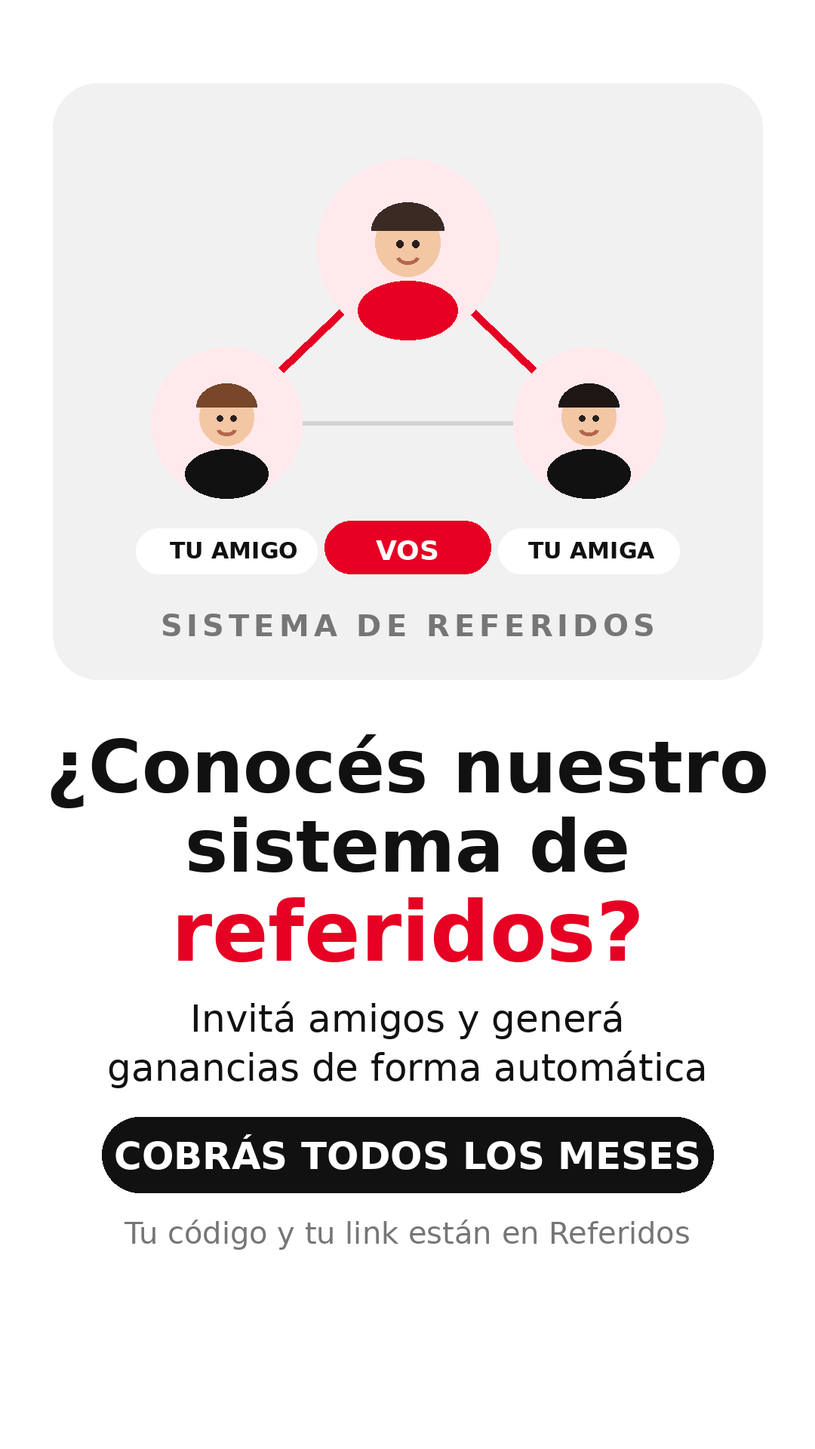
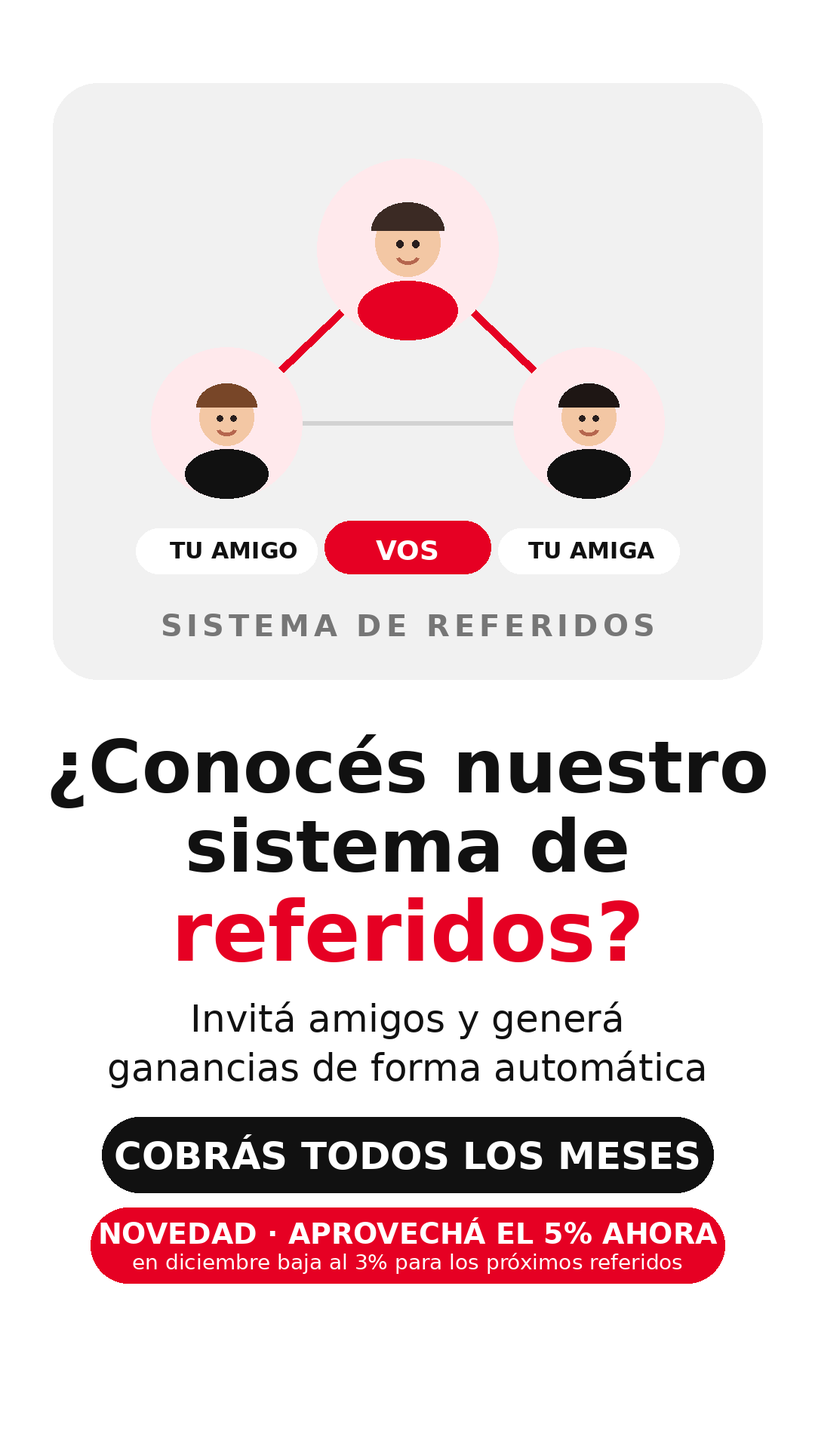
feat(app): novedad de Referidos (5% ahora, 3% desde diciembre) en el modal y en la historia — WORKLOG #472, SW v330

Changed region(s): [[0.0917, 0.8125, 0.8861, 0.9062]]

diff --git a/public/firebase-messaging-sw.js b/public/firebase-messaging-sw.js
@@ -34,7 +34,7 @@ try {
 // ============================================
 // CONFIGURACIÓN DE CACHÉ
 // ============================================
-const CACHE_VERSION = 'v329'; // v329: 'Ver la plataforma' con selector Girox / Ganamos (Pronto) / Jugaygana (Pronto) (#470) // v328: condiciones de referidos y niveles VIP estilo 1win, detalle por nivel y soporte Telegram para Black (#465) // v327: medidor de uso de la app (ping cada 60 s) para Datos IA (#459) // v326: reembolso 'de tu NETWIN' en inicio/menu; promo 'valida hasta diciembre' solo dentro de los modales (#458) // v325: historias rehechas sin pie interno (franja inferior libre), Soporte con los 3, arriba solo el nombre (#456) // v324: historias: logo + PICA ROJA arriba a la izquierda (Instagram), sello de abajo en blanco sin pildora (#455) // v323: barras de progreso de historias tipo Instagram (#454) // v322: historias tipo WhatsApp: foto completa, sello de marca al pie, sin bloque negro (#453) // v321: visor de historias: marca arriba, texto abajo sobre fondo negro desgastado sin pisar la foto (#452) // v320: modal 'Tu opinion' con el estilo de la app (#450) // v319: Menu facil con avatar + nombre desplegable (ver mas); sin 'GIROX - LA APP QUE PAGA' en la entrada (#448/#449) // v318: detalle de reembolsos en inicio solo con el % diario (#447) // v317: selector de reembolsos: tres botones rojos con letra blanca e iconos de linea (#446) // v316: iconos con mas presencia (trazo grueso, duotono, caja rojo claro) (#445) // v315: alerta del banco sin pausar si el panel lo configura asi (#443) // v314: alerta 'banco con fallas' en el retiro (#442) // v313: Inicio post-login con iconos de linea (entrada, menu facil, selector, instalar app) (#441) // v312: iconos de linea (Pinterest) en Info y Perfil en vez de emojis (#440) // v311: Info: texto de plataformas en su linea, solo Girox/Ganamos/Jugaygana en negrita (#439) // v310: Info: texto de 'La plataforma que quieras' en negrita (#438) // v309: 'Cerrar sesion' en Perfil tambien para diego294290 (#437) // v308: parte superior del inicio un poco mas abajo, centrada con la de abajo (#436) // v307: 'Pronto' en vez de 'Proximamente' en Elegi donde jugar (#435) // v306: fila prioritaria 'Carga automatica y atencion personalizada' arriba de los beneficios (#434) // v305: 'CARGAS Y PAGOS LAS 24 HS SIN LIMITES' bajo el titulo (#433) // v304: beneficios con texto completo en tres filas (VIP PICA ROJA, reembolsos diarios/semanales/mensuales, referidos) (#432) // v303: mas espacio entre bloques del inicio; 'Jugaygana' con J mayuscula (#431) // v302: inicio en exactamente una pantalla de telefono (sin scroll, opiniones con el alto sobrante), sin burbuja de Soporte (#430) // v301: inicio mas compacto para que las opiniones entren en la pantalla principal (#429) // v300: recuadro 'Elegi donde jugar' debajo de Registrarse (jugaygana en minuscula), sin linea de estrellas, opiniones visibles (#428) // v299: inicio solo 'Completa tu nombre para registrarte' + 'Registrarse ya'; sin olvide clave / soporte / ya tengo cuenta (#427) // v298: paso 'Te registraste con exito' con usuario y clave antes de entrar (#426) // v297: la entrada con nombre es LA forma de registro; sin 'Crear mi cuenta' (#425) // v296: ingreso con tarjetas de beneficios (VIP, reembolsos, elegi donde jugar, referidos) con iconos de linea (#424) // v295: Girox nunca 'Proximamente' en la fila del ingreso (#423) // v294: fila de las 3 plataformas en el ingreso, Ganamos y jugaygana 'Proximamente' (#423) // v293: entrada rapida automatica para quien llega por link de publicidad (#422) // v292: entrada rapida solo con el nombre cuando el registro esta desactivado en el panel (#421) // v291: boton de ingreso 'Iniciar sesion', mas chico (#420) // v290: ingreso mas compacto arriba, reseñas con comentario visible, burbuja de Soporte chica en la punta (#419) // v289: registro siempre visible (tambien con link de publicista), 'Olvide mi contraseña', registro = usuario + clave + telefono + SMS, 'Confirmar y entrar' (#418) // v288: ingreso como estaba (login visible + Crear mi cuenta), reseñas deslizandose, historias como anillo arriba a la derecha (#417) // v287: ingreso sin chips ni ticker; historias publicadas + opinion de la gente (reseña que rota) (#416) // v286: ingreso en UNA pantalla estilo registro de app (sin scroll, explicacion resumida, linea de confianza) (#415) // v285: ingreso como REGISTRO (SMS), soporte para visitantes (burbuja + panel), ticker sobrio con el final del nombre visible (#414) // v284: 'Cerrar sesion' al pie de Perfil solo para lalodj (#412) // v283: botones Comprobante aqui / Retirar premio a mitad y mitad sin desbordar (#409) // v282: Info: 'La plataforma que quieras' (texto nuevo, jugaygana en minuscula) (#407) // v281: Perfil: el link de la pagina va recto debajo del titulo, en una linea (#406) // v280: fueguito: requisito por MONTO cargado en N dias (no por cantidad de cargas) en textos del home y del modal (#405) // v279: Perfil reordenado (Canjear codigo arriba, Menu, Nocturno + Notificaciones, datos + Capturar, Fueguito, resto) y mas compacto (#404) // v278: etiquetas Telegram / Historias de la barra mas chicas, sin corte (#403) // v277: la barra 'Instala la app' pendiente ya no tapa Comprobante aqui / Retirar premio (#402) // v276: Soporte: la presentacion se va cuando el cliente ya escribio; cierre automatico a las 6 h sin respuesta y el chat arranca de cero para el (#401) // v275: Perfil: modo nocturno arriba con Activar/Desactivar, filas usuario/clave/pagina en una linea, Ocultar debajo de Copiar; nocturno: texto --p-inv sobre fondos negros (#399) // v274: modo nocturno solo dentro de Perfil, sin boton en la barra (#396) // v273: modo nocturno de la app (Perfil + barra, #392), Perfil con codigo de referido y clave visible (#393), ruleta sin probabilidades (#390), Retirar premio verde + 'Comprobante aqui' (#391), Info en tarjetas con titulo recuadrado (#394) // v272: 'Retirar premio' con minimo y 'pago automatico' afuera; textos de los botones editables // v271: chips de Soporte mandan solos; Cargar/Retirar responden con boton al sector // v270: plataformas de carga automatica en una fila de cuadrados // v269: codigo SMS en cada retiro // v268: pantalla de ingreso nueva (marca, servicio, reembolsos, plataformas, carga minima, resenas) // v267: pestanas de plataformas iguales (3 cuadrados) + Soporte independiente del chat viejo // v266: retiro minimo $10.000 configurable + 'pago automatico' en el modal de retiro // v265: JUGAYGANA como tercera plataforma (Proximamente) // v264: Soporte paralelo (chat nuevo desde hoy, respuestas firmadas por la persona de turno) // v263: carga automatica: aviso de comprobante duplicado, acuse 'recibimos tu comprobante', franja 'carga pendiente' y rechazo // v262: Soporte 100% soporte (sin cartel de carga automatica ni botones extra; bienvenida nueva) // v261: ruleta: como se desbloquea (carga minima), premio mayor 1 cada 1000, estado bloqueado // v260: Carga manual -> SOPORTE (Martin se presenta, chat con el estilo de la pagina) // v259: ruleta con el estilo nuevo + aviso 'promocion hasta diciembre' en reembolsos // v258: nombre de la app 'PICA ROJA oficial' + logo real de Telegram en la barra // v257: tema Pinterest (blanco, grises, rojo) en toda la app salvo Carga manual // v256: Info del servicio en un solo mensaje, sin app/notificaciones (quedan en Perfil) // v255: el selector facil/completo pregunta en cada arranque y tras 10 min afuera; boton 'Pasar al menu completo' // v254: MENU FACIL (selector al entrar + pantalla de 6 accesos grandes) // v253: al entrar a Carga manual el CBU aparece solo // v252: tarjeta CBU en el chat con 'Por favor enviar comprobante aqui' // v251: letras de la barra de arriba mas chicas, sin cortes // v250: fix endpoint del Telegram de la barra // v249: Telegram a la izquierda, colores en las puntas, 'Historias' mas chico // v248: HISTORIAS (anillo arriba a la derecha + visor) // v247: resenas: 'Deja tu opinion' fija y chica, el resto desliza // v246: Info del servicio con el reembolso diario // v245: tarjeta Reembolso del inicio con el % diario (25) // v244: icono nuevo (pica) + nombre CARGAS AUTOMATIC // v243: titulo/nombre de la app 'CARGAS AUTOMATICA' // v242: tarjeta del fueguito mas baja // v241: fotos del inicio mas grandes // v240: regla del fueguito en una linea // v239: 'Proximamente' visible debajo de Ganamos (tarjeta y pestana del Inicio) // v238: inicio sin puntitos ni etiqueta; boton de cargar abajo de la foto // v237: referidos 5% (texto desde el server) // v236: logo de Ganamos (pica violeta) + promedio de resenas con estrella parcial // v235: reembolso DIARIO de vuelta (25%), semanal 3%, mensual 1%, cartel NOVEDAD en Inicio // v234: JS/CSS network-first (los deploys se ven en la primera apertura); regla del fueguito arriba del modal // v233: fueguito: 'minimo 10 cargas entre racha y racha' visible aunque el server no mande el valor // v232: premios del fueguito x5 en los textos por defecto // v231: texto del fueguito: minimo 5 cargas entre racha y racha // v230: fueguito: la condicion se ve adentro del modal (estaba oculta), minimo 5 cargas por racha // v229: carga manual: avatar de asistente mujer y 'Escribi aqui' en el campo // v228: sin parpadeo del login con sesion guardada; verificacion general sin errores // v227: sin el boton 'Link casino aqui' en carga auto y manual // v226: regla del fueguito (minimo 10 cargas por racha, si no vuelve a 0) a la vista en la tarjeta // v225: carga auto: el panel scrollea adentro, los botones de abajo no se enciman // v224: boton rojo encima de la foto (sin reservar lugar) y sin leyenda abajo // v223: recuadro de fotos al espacio que sobra: Inicio sin deslizar, opiniones a la vista // v222: sin el boton LINK CASINO en el Inicio // v221: puntos del carrusel arriba del boton rojo (no detras de LINK CASINO) // v220: ajuste y centrado por modelo (chico/estandar/grande, tablet centrada, bajos, safe areas) en Inicio, carga auto y manual // v219: carga automatica ocupa toda la pantalla y escala en telefonos altos (Samsung A56 etc.) // v218: fotos del Inicio con la version pegada al link (sin cache viejo) // v217: fotos del Inicio con nombres nuevos (g1..g5) y en el orden pedido; sin fotos anteriores // v216: 'LINK CASINO AQUI · www.1girox.com' como boton en el Inicio y en carga auto/manual // v215: sin el boton 'Ver completas' en las fotos // v214: boton 'Link plataforma' abajo de carga auto y carga manual (abre el casino para jugar) // v213: fotos nuevas del carrusel del Inicio (5 grillas de juegos) // v212: fondo como estaba antes (se quitaron los cambios de tono #321/#325) // v211: fondo un poco mas oscuro y barra superior con el mismo fondo // v210: leyenda del carrusel = link de la plataforma (www.1girox.com) que abre aparte adentro de la app // v209: boton 'Ver completas / Achicar' en las fotos del Inicio (pantalla completa) // v208: fotos completas en el Inicio (recuadro con altura propia) y boton chiquito sobre el final de la foto // v207: fondo azul profundo (mas claridad), vidrio un poco mas claro // v206: boton de cargar en una linea, mas bajo // v205: etiqueta 'FOTO ILUSTRATIVA · aca no se juega' en cada foto y leyenda clara // v204: foto principal de la pagina completa de Girox primera en el carrusel, con recuadro fino tipo pantalla // v203: opiniones de jugadores con mas vida (vidrio, estrellas doradas, insignia de promedio) // v202: sin la linea 'Vista ilustrativa' en el Inicio // v201: boton grande 'Para cargar ahora mismo · apreta aqui' debajo de las fotos // v200: fotos del Inicio a todo el ancho con recuadro y fondo desenfocado // v199: tests tambien con la app instalada para el usuario de prueba // v198: Inicio con carrusel de fotos ilustrativas de Girox (cada 2 s) en vez de la pagina embebida // v197: numero de version visible en Perfil (app vNNN) // v196: con la app instalada no hay test ni para lalodj (funciona como app real) // v195: Inicio siempre al entrar; carga minima tambien en el paso 2 y en el cartel del chat // v194: cabecera del chat 'Carga manual' con asistente // v193: perfil con avatar (recuadro de usuario, selector de iconos, iconos de nivel que se desbloquean) // v192: recarga automatica al entrar una version nueva; tarjetas Girox/Ganamos compactas en carga auto; saldo con el numero abajo // v191: carga minima $5.000 siempre visible (linea en la tarjeta + boton), aun sin redeploy // v190: Girox siempre elegible (nunca 'Proximamente') // v189: Girox siempre seleccionable; Ganamos como estaba (pestaña abre su pagina) con etiqueta Proximamente // v188: carga minima $5.000 en el boton de comprobante y el paso 1 (configurable); iconos de casino discretos y patron tenue de fondo // v187: aviso premium 'la unica app que paga todo en el momento' en el Inicio; Ganamos visible como 'Proximamente' (no seleccionable hasta tener API) // v186: Jugar ahora abre la plataforma afuera con autologin y linea finita 'Volver a cargas'; tests solo para el usuario de prueba; textos segun plataformas habilitadas (Ganamos apagada) // v185: 'Adjuntar comprobante aqui'; un solo cartel (Jugar ahora + extra por instalar) y barra pendiente de punta a punta; fueguito del inicio como estaba, premios plegables y condicion abajo en el modal; niveles VIP abren la escalera (tambien en el test); sin Soporte en vivo en Perfil // v184: niveles VIP escalera 1win (19 niveles) con la plata que desbloquea cada nivel // v183: Info sin opiniones ni ruleta; nivel VIP al lado del saldo con la app instalada (+test); fueguito con barra de niveles y regla de cargas minimas // v182: oferta por instalar la app = % EXTRA sobre la carga (50%), 'cargarlo ahora' o 'despues de jugar' // v181: Informacion del servicio con el estilo de la barra de arriba (recuadros de vidrio, texto grande) // v180: sin globo flotante de soporte // v179: barra de arriba 'Carga auto' // v178: 'Recomendado' debajo de Girox // v177: carga gratis — 'la instalo despues' pinta el boton grande de abajo tambien en test y sin depender del server // v176: pasos 1 y 2 de 'Carga aca' en recuadros, compactos (sin scroll) // v175: carga GRATIS por instalar la app en la primera carga (hoja de oferta, boton grande pendiente, reclamo desde la app instalada, test) // v174: 'Carga aca' centrada con paso 2 (adjunta la foto abajo); boton 'Carga aqui (adjunta la foto aqui)' // v173: opiniones deslizan solas (pausa al tocar) // v172: carrusel de opiniones con 30 reseñas al azar por apertura // v171: vuelven las paginas embebidas al entrar (sin modo logo) // v170: Inicio en modo logo (sin cargar la web), 'Ver pagina' desde el 2º ingreso, texto explicativo grande con links, test de 2º ingreso // v169: nota 'vista ilustrativa · para cargar usa la barra de arriba' en el Inicio // v168: cartel 'Jugar ahora' al acreditarse la carga (abre la plataforma adentro de la app) + boton test chiquito en carga manual y automatica // v167: Perfil en estilo oscuro // v166: resenas discretas (sin fondo blanco) con 'Deja tu opinion' primero; sin aviso de verificar telefono // v165: toda la barra con el estilo del Inicio (iconos SVG, vidrio, corte diamantado); Fueguito diario arriba de la carga automatica // v164: carga automatica con alias+titular y explicacion de plataformas (sin Entrar); Fueguito diario entre Cargar y Retirar; cartel del chat corto 'Recomendable' + Ir a carga automatica // v163: Inicio moderno/futurista (sin retro); resenas tipo Google deslizantes al pie del Inicio; Perfil con usuario/clave/link protagonistas + capturar // v162: Inicio al centro, separado y retro; reembolso / ruleta / referidos arriba del Inicio; carga automatica sencilla // v161: barra de arriba Inicio / Carga automatica / Carga manual / Info / Perfil (usuario+clave, cambiar clave, notificaciones, canal, codigo, instalar, fueguito); sin botones abajo en la entrada // v160: pantalla de entrada — Girox abierto adentro, Ganamos para cambiar, Carga manual / Carga automatica // v159: chat estilo WhatsApp como pantalla principal + cartel 'Servicio completo' con menu deslizante (Ver todo) que despliega la app completa // v158: circulos de la cabecera mas chicos // v157: cabecera apenas mas baja // v156: franja del saldo a la mitad de alto // v155: Instalar app (IMPORTANTE) al lado del saldo; abajo Referidos + Como funciona en una linea // v154: app instalada → casino adentro con carga rapida en formato CARGA (descartable); navegador → aparte con barra Volver // v153: el casino se abre APARTE en /jugar.html con barra 'Volver a la app' (login por API; Ganamos su web; prueba = home publica) // v152: Android sin prompt — info con boton 'Apreta aca para abrir en Google Chrome' (link de acceso directo) // v151: bono de nivel VIP a reclamar con cartel de felicidades y eleccion de plataforma; home compactada en una pantalla; saldo arriba // v150: niveles VIP sin plata — solo nivel y porcentajes // v149: 'Recomendado' en rojo en el recuadro de Girox // v148: Info del servicio — app+notis en una linea arriba, titulo chico, ruleta plegada en vez de niveles VIP // v147: tarjeta de nivel VIP con barra de progreso y escalera desbloqueable debajo de Guarda tu acceso // v146: circulo de arriba 'Soporte aqui' con icono de chat (sin logo de Girox) // v145: Retirar premio en una linea, fila de acciones a la mitad de alto // v144: niveles VIP plegados debajo de reseñas en Info del servicio // v143: instalar app — Android con prompt instala directo, iPhone/otros ven los pasos, Instagram en Android abre Chrome; el botón dice qué va a pasar // v142: fix div sobrante de la tarjeta de carga; Retirar 'se retira automaticamente'; circulo de arriba restaura la burbuja // v141: tarjeta de carga sin paso 2; Cargar aqui dice adjuntar comprobante / se carga automaticamente // v140: prueba = página principal de cada casino; burbuja con ícono de chat y X adentro // v139: Probá las plataformas mejor presentado; modo prueba sin la carga rápida dentro del casino // v138: fila de reembolsos sin recortes + modal de reembolso simple estilo cambio de clave // v137: burbuja de soporte compacta (foto), se saca con X y queda arriba al lado del fueguito // v136: cobro de referidos desde la app, aviso de clave inicial, tarjetas de plataforma chicas con logo (Ganamos violeta) // v135: referidos — como funciona plegado, el resto en una pantalla // v134: fila Cargar aqui (adjuntar comprobante) + Retirar mi premio en rojo // v133: info del servicio — reseñas plegadas arriba, niveles VIP detallados abajo, una hoja centrada // v132: pruebas de plataforma y Ganamos SIEMPRE dentro de la app (recuadro embebido), nada de Chrome // v131: pruebas de plataforma (Girox/Ganamos en Chrome) dentro del soporte // v130: 'Guardá tu acceso a la app' plegable debajo de reembolsos con la captura adentro // v129: fueguito resumido (racha + reclamar + premios) // v128: '¿Dónde querés jugar?' arriba del CBU — tocar = elegir (queda fija), Entrar abre con sesión // v127: burbuja flotante 'Soporte en vivo aquí' (arrastrable, minimizable, abierta al entrar) en vez de la fila; campana y fueguito en los círculos de arriba // v126: info del servicio nueva (por qué elegirnos, reembolsos NOVEDAD, ruleta), reembolsos verdes 'Cobrá tu reembolso acá', ruleta del home, captura solo link/usuario/clave // v125: carga en 2 pasos (CBU → comprobante, acceso secundario) + RETIRAR verde grande con brillo // v124: link de la app completo en la tarjeta de carga // v123: rojo de marketing, arriba al mínimo, reembolsos a la mitad, plataforma FIJA, cómo funciona separado abajo, modales en formato nuevo // v122: barra de soporte sin cortes en pantallas angostas // v121: tema diamante/futurista (vidrio, cian/violeta, cortes diamantados, Montserrat) — chau serif // v120: cabecera de círculos (Canal/Info/Código/Instalar/Clave) sin menú desplegable, carga compacta, barra del casino con plataformas + volver al menú de cargas, estilo premium negro/dorado // v119: home limpia — chau bono por instalar la app, cómo funciona plegado arriba, barra inferior REFERIDOS / INSTALAR APP, explicación completa en el chat // v118: HOME 2.0 — carga automática al frente (CBU/alias/datos de acceso/captura), chat como SOPORTE arriba, plataformas para elegir dónde jugar, cómo funciona el servicio, reembolsos compactos // v117: multi-plataforma — botones "¿dónde querés jugar?" (Girox / Ganamos) y link externo en los mensajes de sistema // v116: Información del Servicio y mini-tarjeta muestran el % vigente del bono por instalar la app (chau 100% fijo)
+const CACHE_VERSION = 'v330'; // v330: novedad en Referidos: el 5% baja al 3% en diciembre (#472) // v329: 'Ver la plataforma' con selector Girox / Ganamos (Pronto) / Jugaygana (Pronto) (#470) // v328: condiciones de referidos y niveles VIP estilo 1win, detalle por nivel y soporte Telegram para Black (#465) // v327: medidor de uso de la app (ping cada 60 s) para Datos IA (#459) // v326: reembolso 'de tu NETWIN' en inicio/menu; promo 'valida hasta diciembre' solo dentro de los modales (#458) // v325: historias rehechas sin pie interno (franja inferior libre), Soporte con los 3, arriba solo el nombre (#456) // v324: historias: logo + PICA ROJA arriba a la izquierda (Instagram), sello de abajo en blanco sin pildora (#455) // v323: barras de progreso de historias tipo Instagram (#454) // v322: historias tipo WhatsApp: foto completa, sello de marca al pie, sin bloque negro (#453) // v321: visor de historias: marca arriba, texto abajo sobre fondo negro desgastado sin pisar la foto (#452) // v320: modal 'Tu opinion' con el estilo de la app (#450) // v319: Menu facil con avatar + nombre desplegable (ver mas); sin 'GIROX - LA APP QUE PAGA' en la entrada (#448/#449) // v318: detalle de reembolsos en inicio solo con el % diario (#447) // v317: selector de reembolsos: tres botones rojos con letra blanca e iconos de linea (#446) // v316: iconos con mas presencia (trazo grueso, duotono, caja rojo claro) (#445) // v315: alerta del banco sin pausar si el panel lo configura asi (#443) // v314: alerta 'banco con fallas' en el retiro (#442) // v313: Inicio post-login con iconos de linea (entrada, menu facil, selector, instalar app) (#441) // v312: iconos de linea (Pinterest) en Info y Perfil en vez de emojis (#440) // v311: Info: texto de plataformas en su linea, solo Girox/Ganamos/Jugaygana en negrita (#439) // v310: Info: texto de 'La plataforma que quieras' en negrita (#438) // v309: 'Cerrar sesion' en Perfil tambien para diego294290 (#437) // v308: parte superior del inicio un poco mas abajo, centrada con la de abajo (#436) // v307: 'Pronto' en vez de 'Proximamente' en Elegi donde jugar (#435) // v306: fila prioritaria 'Carga automatica y atencion personalizada' arriba de los beneficios (#434) // v305: 'CARGAS Y PAGOS LAS 24 HS SIN LIMITES' bajo el titulo (#433) // v304: beneficios con texto completo en tres filas (VIP PICA ROJA, reembolsos diarios/semanales/mensuales, referidos) (#432) // v303: mas espacio entre bloques del inicio; 'Jugaygana' con J mayuscula (#431) // v302: inicio en exactamente una pantalla de telefono (sin scroll, opiniones con el alto sobrante), sin burbuja de Soporte (#430) // v301: inicio mas compacto para que las opiniones entren en la pantalla principal (#429) // v300: recuadro 'Elegi donde jugar' debajo de Registrarse (jugaygana en minuscula), sin linea de estrellas, opiniones visibles (#428) // v299: inicio solo 'Completa tu nombre para registrarte' + 'Registrarse ya'; sin olvide clave / soporte / ya tengo cuenta (#427) // v298: paso 'Te registraste con exito' con usuario y clave antes de entrar (#426) // v297: la entrada con nombre es LA forma de registro; sin 'Crear mi cuenta' (#425) // v296: ingreso con tarjetas de beneficios (VIP, reembolsos, elegi donde jugar, referidos) con iconos de linea (#424) // v295: Girox nunca 'Proximamente' en la fila del ingreso (#423) // v294: fila de las 3 plataformas en el ingreso, Ganamos y jugaygana 'Proximamente' (#423) // v293: entrada rapida automatica para quien llega por link de publicidad (#422) // v292: entrada rapida solo con el nombre cuando el registro esta desactivado en el panel (#421) // v291: boton de ingreso 'Iniciar sesion', mas chico (#420) // v290: ingreso mas compacto arriba, reseñas con comentario visible, burbuja de Soporte chica en la punta (#419) // v289: registro siempre visible (tambien con link de publicista), 'Olvide mi contraseña', registro = usuario + clave + telefono + SMS, 'Confirmar y entrar' (#418) // v288: ingreso como estaba (login visible + Crear mi cuenta), reseñas deslizandose, historias como anillo arriba a la derecha (#417) // v287: ingreso sin chips ni ticker; historias publicadas + opinion de la gente (reseña que rota) (#416) // v286: ingreso en UNA pantalla estilo registro de app (sin scroll, explicacion resumida, linea de confianza) (#415) // v285: ingreso como REGISTRO (SMS), soporte para visitantes (burbuja + panel), ticker sobrio con el final del nombre visible (#414) // v284: 'Cerrar sesion' al pie de Perfil solo para lalodj (#412) // v283: botones Comprobante aqui / Retirar premio a mitad y mitad sin desbordar (#409) // v282: Info: 'La plataforma que quieras' (texto nuevo, jugaygana en minuscula) (#407) // v281: Perfil: el link de la pagina va recto debajo del titulo, en una linea (#406) // v280: fueguito: requisito por MONTO cargado en N dias (no por cantidad de cargas) en textos del home y del modal (#405) // v279: Perfil reordenado (Canjear codigo arriba, Menu, Nocturno + Notificaciones, datos + Capturar, Fueguito, resto) y mas compacto (#404) // v278: etiquetas Telegram / Historias de la barra mas chicas, sin corte (#403) // v277: la barra 'Instala la app' pendiente ya no tapa Comprobante aqui / Retirar premio (#402) // v276: Soporte: la presentacion se va cuando el cliente ya escribio; cierre automatico a las 6 h sin respuesta y el chat arranca de cero para el (#401) // v275: Perfil: modo nocturno arriba con Activar/Desactivar, filas usuario/clave/pagina en una linea, Ocultar debajo de Copiar; nocturno: texto --p-inv sobre fondos negros (#399) // v274: modo nocturno solo dentro de Perfil, sin boton en la barra (#396) // v273: modo nocturno de la app (Perfil + barra, #392), Perfil con codigo de referido y clave visible (#393), ruleta sin probabilidades (#390), Retirar premio verde + 'Comprobante aqui' (#391), Info en tarjetas con titulo recuadrado (#394) // v272: 'Retirar premio' con minimo y 'pago automatico' afuera; textos de los botones editables // v271: chips de Soporte mandan solos; Cargar/Retirar responden con boton al sector // v270: plataformas de carga automatica en una fila de cuadrados // v269: codigo SMS en cada retiro // v268: pantalla de ingreso nueva (marca, servicio, reembolsos, plataformas, carga minima, resenas) // v267: pestanas de plataformas iguales (3 cuadrados) + Soporte independiente del chat viejo // v266: retiro minimo $10.000 configurable + 'pago automatico' en el modal de retiro // v265: JUGAYGANA como tercera plataforma (Proximamente) // v264: Soporte paralelo (chat nuevo desde hoy, respuestas firmadas por la persona de turno) // v263: carga automatica: aviso de comprobante duplicado, acuse 'recibimos tu comprobante', franja 'carga pendiente' y rechazo // v262: Soporte 100% soporte (sin cartel de carga automatica ni botones extra; bienvenida nueva) // v261: ruleta: como se desbloquea (carga minima), premio mayor 1 cada 1000, estado bloqueado // v260: Carga manual -> SOPORTE (Martin se presenta, chat con el estilo de la pagina) // v259: ruleta con el estilo nuevo + aviso 'promocion hasta diciembre' en reembolsos // v258: nombre de la app 'PICA ROJA oficial' + logo real de Telegram en la barra // v257: tema Pinterest (blanco, grises, rojo) en toda la app salvo Carga manual // v256: Info del servicio en un solo mensaje, sin app/notificaciones (quedan en Perfil) // v255: el selector facil/completo pregunta en cada arranque y tras 10 min afuera; boton 'Pasar al menu completo' // v254: MENU FACIL (selector al entrar + pantalla de 6 accesos grandes) // v253: al entrar a Carga manual el CBU aparece solo // v252: tarjeta CBU en el chat con 'Por favor enviar comprobante aqui' // v251: letras de la barra de arriba mas chicas, sin cortes // v250: fix endpoint del Telegram de la barra // v249: Telegram a la izquierda, colores en las puntas, 'Historias' mas chico // v248: HISTORIAS (anillo arriba a la derecha + visor) // v247: resenas: 'Deja tu opinion' fija y chica, el resto desliza // v246: Info del servicio con el reembolso diario // v245: tarjeta Reembolso del inicio con el % diario (25) // v244: icono nuevo (pica) + nombre CARGAS AUTOMATIC // v243: titulo/nombre de la app 'CARGAS AUTOMATICA' // v242: tarjeta del fueguito mas baja // v241: fotos del inicio mas grandes // v240: regla del fueguito en una linea // v239: 'Proximamente' visible debajo de Ganamos (tarjeta y pestana del Inicio) // v238: inicio sin puntitos ni etiqueta; boton de cargar abajo de la foto // v237: referidos 5% (texto desde el server) // v236: logo de Ganamos (pica violeta) + promedio de resenas con estrella parcial // v235: reembolso DIARIO de vuelta (25%), semanal 3%, mensual 1%, cartel NOVEDAD en Inicio // v234: JS/CSS network-first (los deploys se ven en la primera apertura); regla del fueguito arriba del modal // v233: fueguito: 'minimo 10 cargas entre racha y racha' visible aunque el server no mande el valor // v232: premios del fueguito x5 en los textos por defecto // v231: texto del fueguito: minimo 5 cargas entre racha y racha // v230: fueguito: la condicion se ve adentro del modal (estaba oculta), minimo 5 cargas por racha // v229: carga manual: avatar de asistente mujer y 'Escribi aqui' en el campo // v228: sin parpadeo del login con sesion guardada; verificacion general sin errores // v227: sin el boton 'Link casino aqui' en carga auto y manual // v226: regla del fueguito (minimo 10 cargas por racha, si no vuelve a 0) a la vista en la tarjeta // v225: carga auto: el panel scrollea adentro, los botones de abajo no se enciman // v224: boton rojo encima de la foto (sin reservar lugar) y sin leyenda abajo // v223: recuadro de fotos al espacio que sobra: Inicio sin deslizar, opiniones a la vista // v222: sin el boton LINK CASINO en el Inicio // v221: puntos del carrusel arriba del boton rojo (no detras de LINK CASINO) // v220: ajuste y centrado por modelo (chico/estandar/grande, tablet centrada, bajos, safe areas) en Inicio, carga auto y manual // v219: carga automatica ocupa toda la pantalla y escala en telefonos altos (Samsung A56 etc.) // v218: fotos del Inicio con la version pegada al link (sin cache viejo) // v217: fotos del Inicio con nombres nuevos (g1..g5) y en el orden pedido; sin fotos anteriores // v216: 'LINK CASINO AQUI · www.1girox.com' como boton en el Inicio y en carga auto/manual // v215: sin el boton 'Ver completas' en las fotos // v214: boton 'Link plataforma' abajo de carga auto y carga manual (abre el casino para jugar) // v213: fotos nuevas del carrusel del Inicio (5 grillas de juegos) // v212: fondo como estaba antes (se quitaron los cambios de tono #321/#325) // v211: fondo un poco mas oscuro y barra superior con el mismo fondo // v210: leyenda del carrusel = link de la plataforma (www.1girox.com) que abre aparte adentro de la app // v209: boton 'Ver completas / Achicar' en las fotos del Inicio (pantalla completa) // v208: fotos completas en el Inicio (recuadro con altura propia) y boton chiquito sobre el final de la foto // v207: fondo azul profundo (mas claridad), vidrio un poco mas claro // v206: boton de cargar en una linea, mas bajo // v205: etiqueta 'FOTO ILUSTRATIVA · aca no se juega' en cada foto y leyenda clara // v204: foto principal de la pagina completa de Girox primera en el carrusel, con recuadro fino tipo pantalla // v203: opiniones de jugadores con mas vida (vidrio, estrellas doradas, insignia de promedio) // v202: sin la linea 'Vista ilustrativa' en el Inicio // v201: boton grande 'Para cargar ahora mismo · apreta aqui' debajo de las fotos // v200: fotos del Inicio a todo el ancho con recuadro y fondo desenfocado // v199: tests tambien con la app instalada para el usuario de prueba // v198: Inicio con carrusel de fotos ilustrativas de Girox (cada 2 s) en vez de la pagina embebida // v197: numero de version visible en Perfil (app vNNN) // v196: con la app instalada no hay test ni para lalodj (funciona como app real) // v195: Inicio siempre al entrar; carga minima tambien en el paso 2 y en el cartel del chat // v194: cabecera del chat 'Carga manual' con asistente // v193: perfil con avatar (recuadro de usuario, selector de iconos, iconos de nivel que se desbloquean) // v192: recarga automatica al entrar una version nueva; tarjetas Girox/Ganamos compactas en carga auto; saldo con el numero abajo // v191: carga minima $5.000 siempre visible (linea en la tarjeta + boton), aun sin redeploy // v190: Girox siempre elegible (nunca 'Proximamente') // v189: Girox siempre seleccionable; Ganamos como estaba (pestaña abre su pagina) con etiqueta Proximamente // v188: carga minima $5.000 en el boton de comprobante y el paso 1 (configurable); iconos de casino discretos y patron tenue de fondo // v187: aviso premium 'la unica app que paga todo en el momento' en el Inicio; Ganamos visible como 'Proximamente' (no seleccionable hasta tener API) // v186: Jugar ahora abre la plataforma afuera con autologin y linea finita 'Volver a cargas'; tests solo para el usuario de prueba; textos segun plataformas habilitadas (Ganamos apagada) // v185: 'Adjuntar comprobante aqui'; un solo cartel (Jugar ahora + extra por instalar) y barra pendiente de punta a punta; fueguito del inicio como estaba, premios plegables y condicion abajo en el modal; niveles VIP abren la escalera (tambien en el test); sin Soporte en vivo en Perfil // v184: niveles VIP escalera 1win (19 niveles) con la plata que desbloquea cada nivel // v183: Info sin opiniones ni ruleta; nivel VIP al lado del saldo con la app instalada (+test); fueguito con barra de niveles y regla de cargas minimas // v182: oferta por instalar la app = % EXTRA sobre la carga (50%), 'cargarlo ahora' o 'despues de jugar' // v181: Informacion del servicio con el estilo de la barra de arriba (recuadros de vidrio, texto grande) // v180: sin globo flotante de soporte // v179: barra de arriba 'Carga auto' // v178: 'Recomendado' debajo de Girox // v177: carga gratis — 'la instalo despues' pinta el boton grande de abajo tambien en test y sin depender del server // v176: pasos 1 y 2 de 'Carga aca' en recuadros, compactos (sin scroll) // v175: carga GRATIS por instalar la app en la primera carga (hoja de oferta, boton grande pendiente, reclamo desde la app instalada, test) // v174: 'Carga aca' centrada con paso 2 (adjunta la foto abajo); boton 'Carga aqui (adjunta la foto aqui)' // v173: opiniones deslizan solas (pausa al tocar) // v172: carrusel de opiniones con 30 reseñas al azar por apertura // v171: vuelven las paginas embebidas al entrar (sin modo logo) // v170: Inicio en modo logo (sin cargar la web), 'Ver pagina' desde el 2º ingreso, texto explicativo grande con links, test de 2º ingreso // v169: nota 'vista ilustrativa · para cargar usa la barra de arriba' en el Inicio // v168: cartel 'Jugar ahora' al acreditarse la carga (abre la plataforma adentro de la app) + boton test chiquito en carga manual y automatica // v167: Perfil en estilo oscuro // v166: resenas discretas (sin fondo blanco) con 'Deja tu opinion' primero; sin aviso de verificar telefono // v165: toda la barra con el estilo del Inicio (iconos SVG, vidrio, corte diamantado); Fueguito diario arriba de la carga automatica // v164: carga automatica con alias+titular y explicacion de plataformas (sin Entrar); Fueguito diario entre Cargar y Retirar; cartel del chat corto 'Recomendable' + Ir a carga automatica // v163: Inicio moderno/futurista (sin retro); resenas tipo Google deslizantes al pie del Inicio; Perfil con usuario/clave/link protagonistas + capturar // v162: Inicio al centro, separado y retro; reembolso / ruleta / referidos arriba del Inicio; carga automatica sencilla // v161: barra de arriba Inicio / Carga automatica / Carga manual / Info / Perfil (usuario+clave, cambiar clave, notificaciones, canal, codigo, instalar, fueguito); sin botones abajo en la entrada // v160: pantalla de entrada — Girox abierto adentro, Ganamos para cambiar, Carga manual / Carga automatica // v159: chat estilo WhatsApp como pantalla principal + cartel 'Servicio completo' con menu deslizante (Ver todo) que despliega la app completa // v158: circulos de la cabecera mas chicos // v157: cabecera apenas mas baja // v156: franja del saldo a la mitad de alto // v155: Instalar app (IMPORTANTE) al lado del saldo; abajo Referidos + Como funciona en una linea // v154: app instalada → casino adentro con carga rapida en formato CARGA (descartable); navegador → aparte con barra Volver // v153: el casino se abre APARTE en /jugar.html con barra 'Volver a la app' (login por API; Ganamos su web; prueba = home publica) // v152: Android sin prompt — info con boton 'Apreta aca para abrir en Google Chrome' (link de acceso directo) // v151: bono de nivel VIP a reclamar con cartel de felicidades y eleccion de plataforma; home compactada en una pantalla; saldo arriba // v150: niveles VIP sin plata — solo nivel y porcentajes // v149: 'Recomendado' en rojo en el recuadro de Girox // v148: Info del servicio — app+notis en una linea arriba, titulo chico, ruleta plegada en vez de niveles VIP // v147: tarjeta de nivel VIP con barra de progreso y escalera desbloqueable debajo de Guarda tu acceso // v146: circulo de arriba 'Soporte aqui' con icono de chat (sin logo de Girox) // v145: Retirar premio en una linea, fila de acciones a la mitad de alto // v144: niveles VIP plegados debajo de reseñas en Info del servicio // v143: instalar app — Android con prompt instala directo, iPhone/otros ven los pasos, Instagram en Android abre Chrome; el botón dice qué va a pasar // v142: fix div sobrante de la tarjeta de carga; Retirar 'se retira automaticamente'; circulo de arriba restaura la burbuja // v141: tarjeta de carga sin paso 2; Cargar aqui dice adjuntar comprobante / se carga automaticamente // v140: prueba = página principal de cada casino; burbuja con ícono de chat y X adentro // v139: Probá las plataformas mejor presentado; modo prueba sin la carga rápida dentro del casino // v138: fila de reembolsos sin recortes + modal de reembolso simple estilo cambio de clave // v137: burbuja de soporte compacta (foto), se saca con X y queda arriba al lado del fueguito // v136: cobro de referidos desde la app, aviso de clave inicial, tarjetas de plataforma chicas con logo (Ganamos violeta) // v135: referidos — como funciona plegado, el resto en una pantalla // v134: fila Cargar aqui (adjuntar comprobante) + Retirar mi premio en rojo // v133: info del servicio — reseñas plegadas arriba, niveles VIP detallados abajo, una hoja centrada // v132: pruebas de plataforma y Ganamos SIEMPRE dentro de la app (recuadro embebido), nada de Chrome // v131: pruebas de plataforma (Girox/Ganamos en Chrome) dentro del soporte // v130: 'Guardá tu acceso a la app' plegable debajo de reembolsos con la captura adentro // v129: fueguito resumido (racha + reclamar + premios) // v128: '¿Dónde querés jugar?' arriba del CBU — tocar = elegir (queda fija), Entrar abre con sesión // v127: burbuja flotante 'Soporte en vivo aquí' (arrastrable, minimizable, abierta al entrar) en vez de la fila; campana y fueguito en los círculos de arriba // v126: info del servicio nueva (por qué elegirnos, reembolsos NOVEDAD, ruleta), reembolsos verdes 'Cobrá tu reembolso acá', ruleta del home, captura solo link/usuario/clave // v125: carga en 2 pasos (CBU → comprobante, acceso secundario) + RETIRAR verde grande con brillo // v124: link de la app completo en la tarjeta de carga // v123: rojo de marketing, arriba al mínimo, reembolsos a la mitad, plataforma FIJA, cómo funciona separado abajo, modales en formato nuevo // v122: barra de soporte sin cortes en pantallas angostas // v121: tema diamante/futurista (vidrio, cian/violeta, cortes diamantados, Montserrat) — chau serif // v120: cabecera de círculos (Canal/Info/Código/Instalar/Clave) sin menú desplegable, carga compacta, barra del casino con plataformas + volver al menú de cargas, estilo premium negro/dorado // v119: home limpia — chau bono por instalar la app, cómo funciona plegado arriba, barra inferior REFERIDOS / INSTALAR APP, explicación completa en el chat // v118: HOME 2.0 — carga automática al frente (CBU/alias/datos de acceso/captura), chat como SOPORTE arriba, plataformas para elegir dónde jugar, cómo funciona el servicio, reembolsos compactos // v117: multi-plataforma — botones "¿dónde querés jugar?" (Girox / Ganamos) y link externo en los mensajes de sistema // v116: Información del Servicio y mini-tarjeta muestran el % vigente del bono por instalar la app (chau 100% fijo)
 // v115: // v115: ruleta diaria con premios en % y tabla de probabilidades + bonos pendientes se aplican solos en la carga + sin bono de bienvenida para registros manuales
 // v114: // v114: el cartel del bono por instalar la app toma el % y los textos del server (editables en COMANDOS) — chau 100% fijo
 // v113: // v113: REEMBOLSO ACUMULATIVO de por vida en el perfil (tarjeta + reclamar + actualizar) — ESPEC-REEMBOLSO-1GIROX

diff --git a/public/index.html b/public/index.html
@@ -2350,7 +2350,7 @@
                     <div class="pf-userlvl" id="pfUserLvl">Jugador</div>
                     <div class="pf-userhint">Tocá el avatar para elegir tu ícono · los de nivel se desbloquean al subir</div>
                     <!-- #309: versión visible de la app (mismo número que CACHE_VERSION del SW; se bumpea junto) -->
-                    <div class="pf-build" id="appBuildTag">app v329</div>
+                    <div class="pf-build" id="appBuildTag">app v330</div>
                 </div>
             </div>
             <!-- #270 (owner): predominancia a usuario, contraseña y página de la app + botón de captura. -->
@@ -4768,6 +4768,8 @@
             <div class="modal-header">
                 <h2>🤝 Mis Referidos</h2>
                 <p>Invitá amigos y cobrá <strong style="color:#d4af37;">todos los meses el <span class="ref-pct">5</span>%</strong> de su actividad — sin límite de referidos</p>
+                <!-- #472 (owner): novedad — el % baja en diciembre para los próximos referidos -->
+                <div class="ref-news"><b>NOVEDAD</b> Aprovechá el <b><span class="ref-pct">5</span>%</b> ahora: en diciembre baja al <b>3%</b> para todos los próximos referidos. Los que ya tenés siguen igual.</div>
             </div>
             <div id="referralContent">
                 <!-- #239 (owner): "en referidos veo mucha info: el cómo funciona adentro de un deslizante, sin

diff --git a/public/css/pin.css b/public/css/pin.css
@@ -1284,4 +1284,7 @@ html[data-theme="dark"] .cond-sec.cond-black, html[data-theme="dark"] #vipLevels
 .ep-item b { font: 800 14px var(--p-font); } .ep-item small { font: 600 11px var(--p-font); color: var(--p-muted); }
 .ep-item em { font: 800 16px var(--p-font); color: var(--p-red); font-style: normal; }
 .ep-item.soon { opacity: .7; } .ep-item.soon em { font-size: 11px; background: var(--p-surface); border-radius: 999px; padding: 3px 9px; color: var(--p-muted); }
+/* ── #472: novedad en Referidos ── */
+.ref-news { margin: 8px 0 0; background: var(--p-red-soft); color: var(--p-text); border-radius: 12px; padding: 8px 12px; font: 600 12px/1.4 var(--p-font); text-align: left; }
+.ref-news > b:first-child { display: inline-block; background: var(--p-red); color: #fff; border-radius: 999px; padding: 1px 8px; font-size: 10px; letter-spacing: .8px; margin-right: 6px; }
 

diff --git a/WORKLOG.md b/WORKLOG.md
@@ -8,6 +8,14 @@
 
 ## Sesión 2026-10-18
 
+### 472. 🤝 Novedad de Referidos: aprovechá el 5% ahora, en diciembre baja al 3% — SW v330
+**Pedido (owner):** "en la novedad de referidos avisar que aprovechen el 5%, que en diciembre baja a 3% para todos los
+próximos referidos".
+**Qué se hizo:** cartel `.ref-news` en el encabezado del modal de Referidos y franja roja en la historia `pin-5.png`
+("NOVEDAD · APROVECHÁ EL 5% AHORA · en diciembre baja al 3% para los próximos referidos"). El % real sigue saliendo del
+panel (`ref-pct`); el 3% de diciembre es texto informativo: cuando llegue, cambiar el % en Comandos → Referidos y este cartel.
+**Archivos:** `public/index.html`, `public/css/pin.css`, `public/firebase-messaging-sw.js`, `public/images/stories/pin-5.png`.
+
 ### 470/471. 🎮 "Ver la plataforma" con selector (Girox · Ganamos Pronto · Jugaygana Pronto) · historia de Referidos — SW v329
 **Pedidos (owner):** "el Ver la plataforma hay que ajustar que cuando aprietan puedan elegir Girox, Ganamos (pronto) y
 Jugaygana (pronto)"; "en Historias vamos a publicar: ¿Conocés nuestro sistema de referidos? Invitá amigos y generá ganancias
